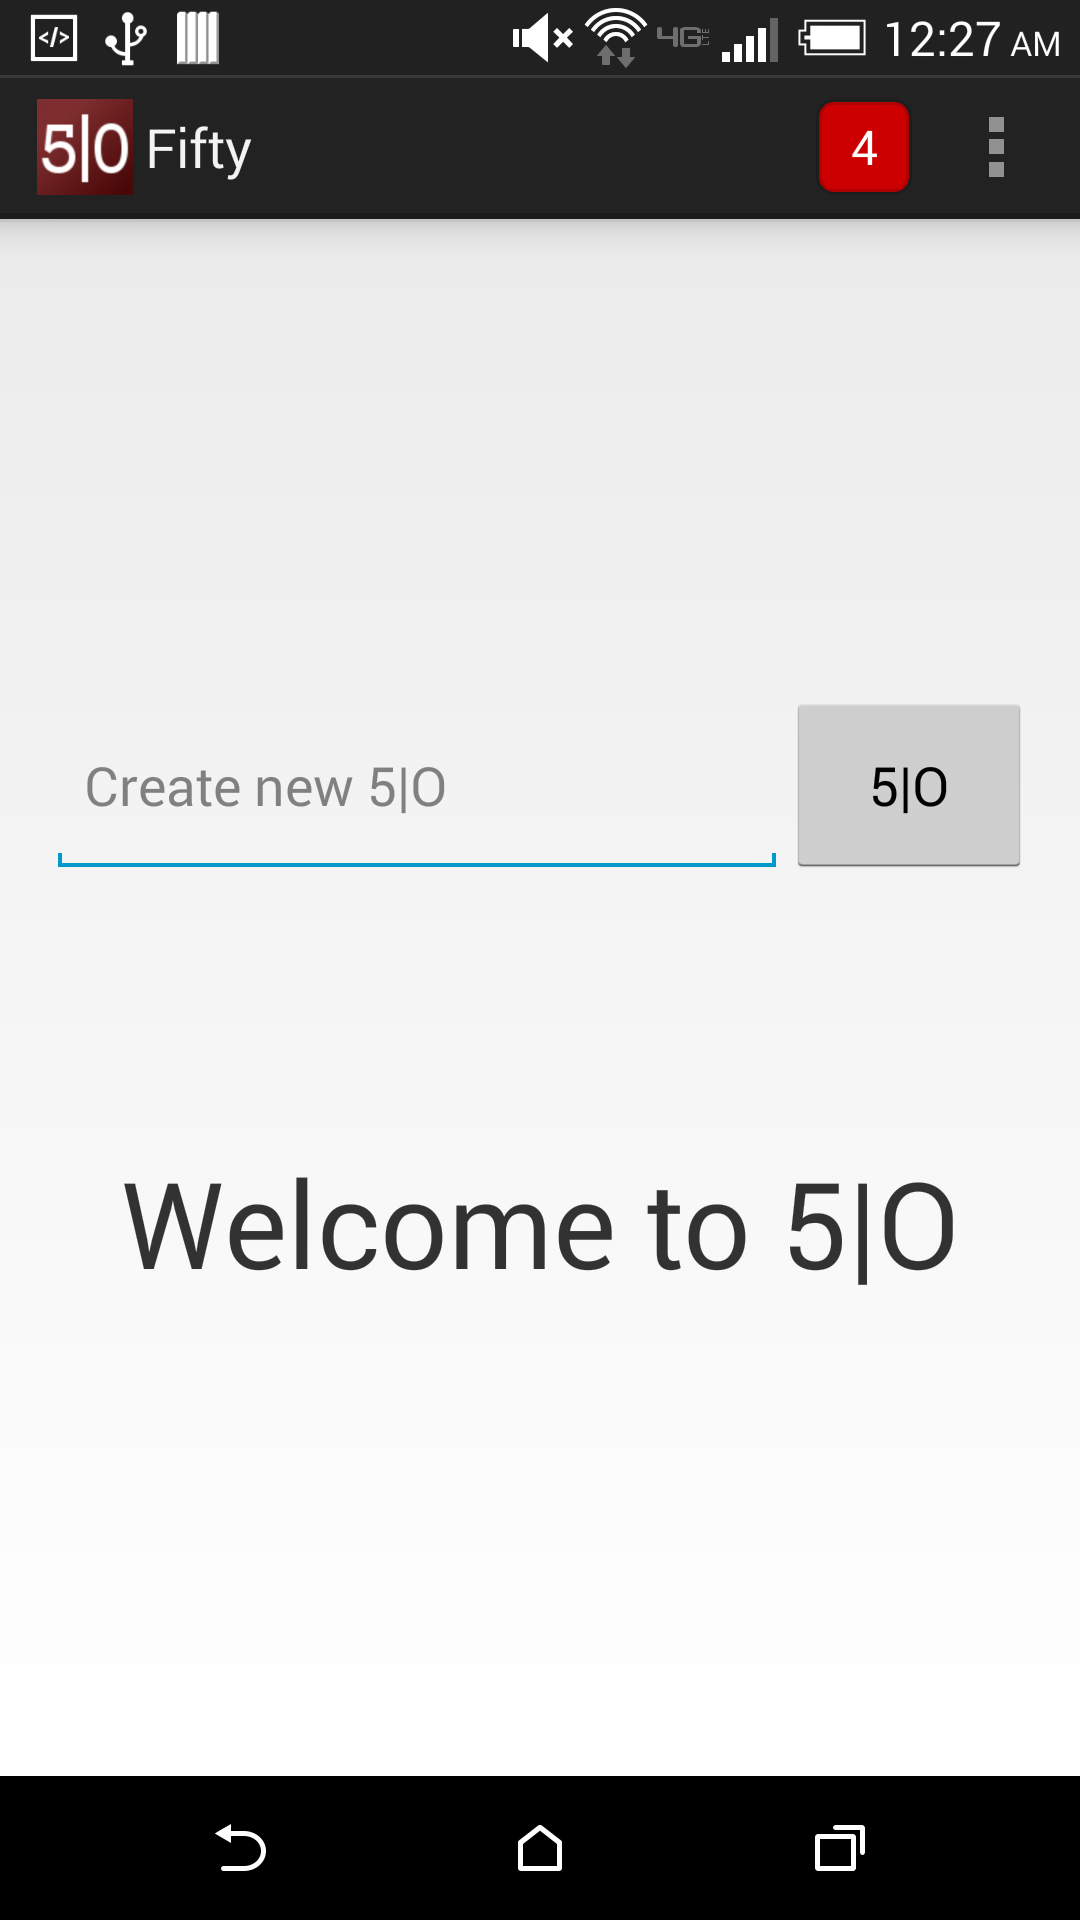
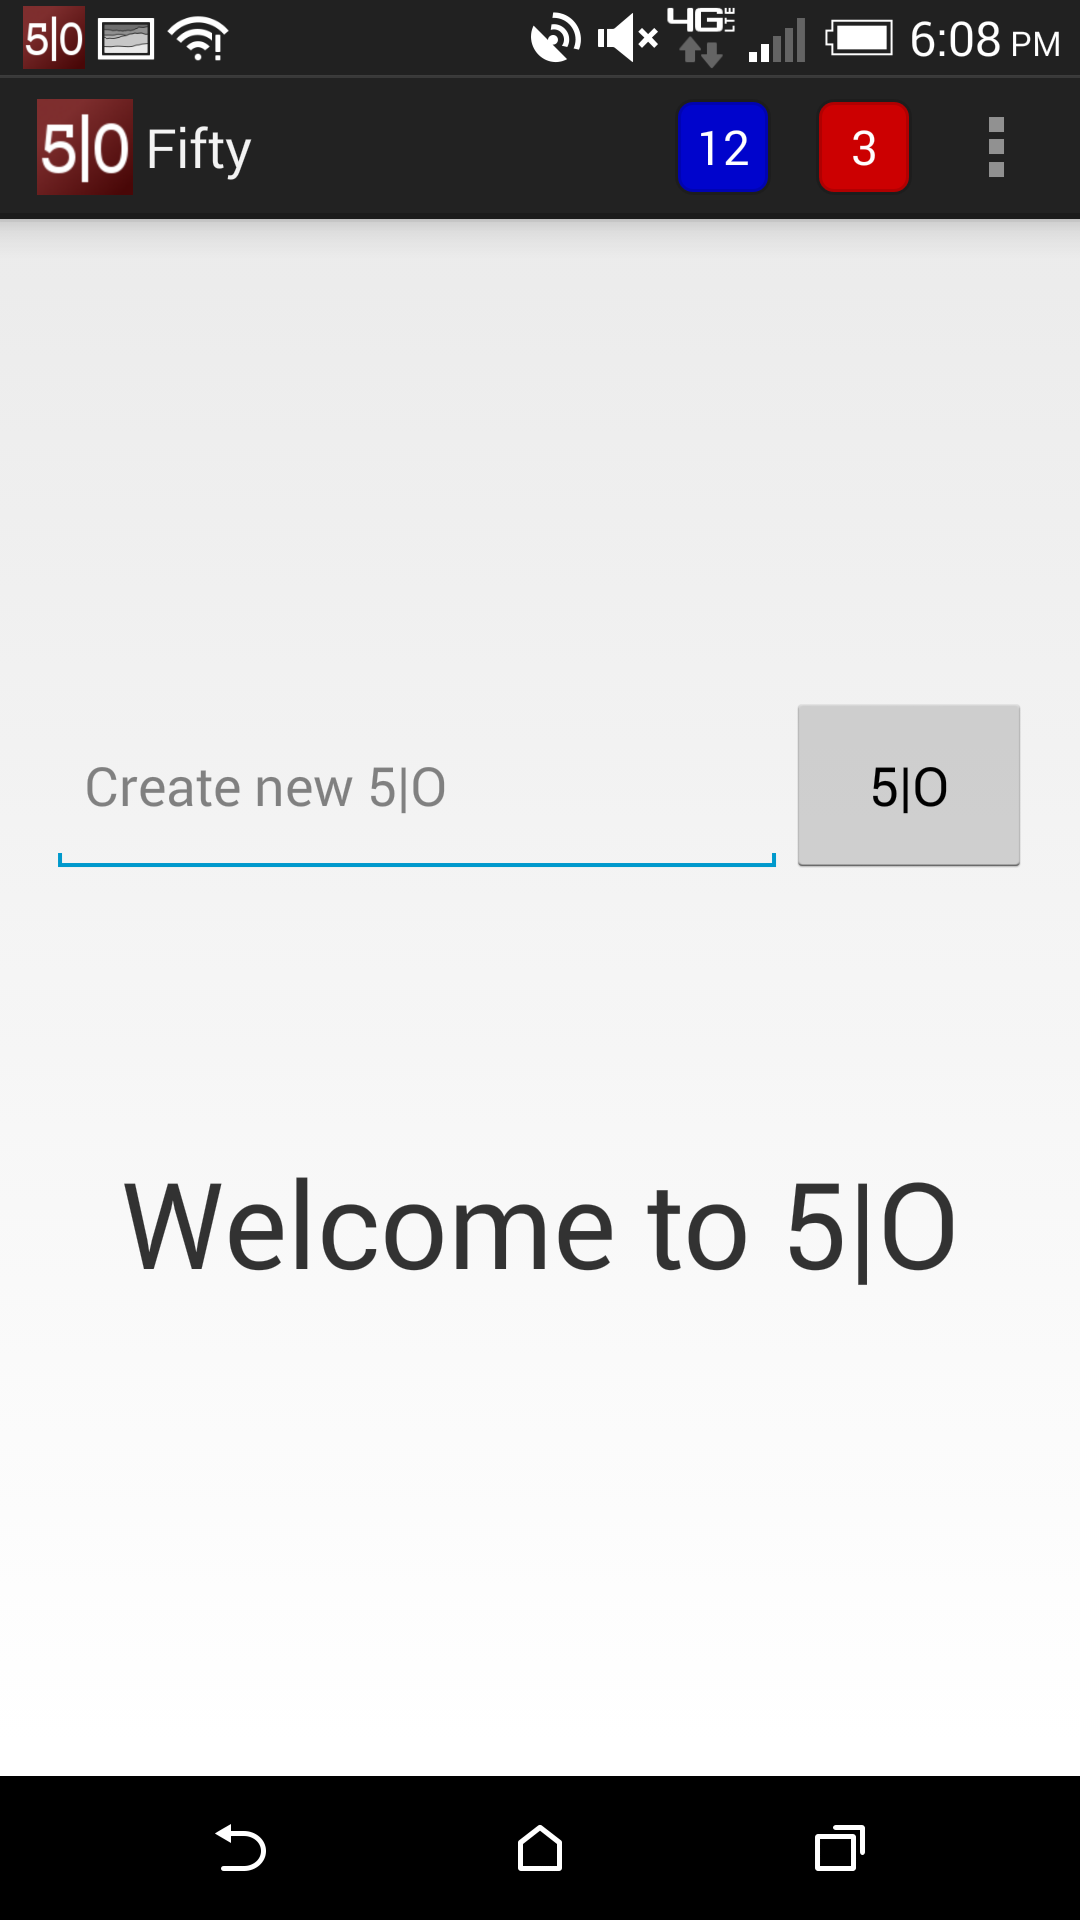
Updated Design

Changed region(s): [[0.4583, 0.0, 0.9472, 0.125], [0.0, 0.0, 0.2139, 0.0625], [0.7944, 0.0625, 0.825, 0.0938]]

diff --git a/v1/design.html b/v1/design.html
@@ -13,9 +13,10 @@
 	<div>
 		<b>Design Requirements for Mobile</b>
 		<ul>
-			<li><b>Home screen</b> - keep it simple</li>
+			<li><b>Home screen</b> - keep it simple.</li>
 			<li><b>Navigation</b> - Way to navigate from home to notifications. Dream here, can be a swipe-slide like snapchat or a button that sends you to notification screen.</li>
 			<li><b>Notification</b> - Way to show notification count on home screen. Currently done with square and number. Keep it geometric, can be a custom notification icon with and a small circle pops up with a number in it like iPhone.</li>
+			<li><b>Results</b> - Currently in the home screen, the blue square is for results the red is notifications. The sample results screen should only hold names of people who said yes or no, list can be scrollable or in columns.</li>
 			<li><b>Buddy List</b> - How easiest way to select friends. All option to lead to friend list, but focus on groupings for ease.</li>
 			<li><b>View Results</b> - Need a way to view results with one of (yes | I | 1) on the right and (no | O | 0) on the left, looking natural.</li>
 		</ul>
@@ -24,6 +25,8 @@
 		<h2>Screenshots</h2>
 		<img src="images/home.png">
 		<img src="images/notification.png">
+		<img src="images/ResultsMock.png">
+		<img src="images/Watch Main.png">
 	</div>
 </div>
 <div id="background"></div>

diff --git a/v1/develop.html b/v1/develop.html
@@ -14,6 +14,7 @@
 		<b>General</b>
 		<ul>
 			<li>Splash screen?</li>
+			<li>Time stamp for question answer time, for displaying last 10 answers and allow changing answer.</li>
 		</ul>
 
 		<b>Backend Database</b>
@@ -26,6 +27,7 @@
 		<b>Bugs</b>
 		<ul>
 			<li>If you swipe two notifications away fast, app crashes. Lock while animated?</li>
+			<li>Potentially while mPendingDismisses are not empty subtract 1 from the remove index</li>
 		</ul>
 	</div>
 </div>
